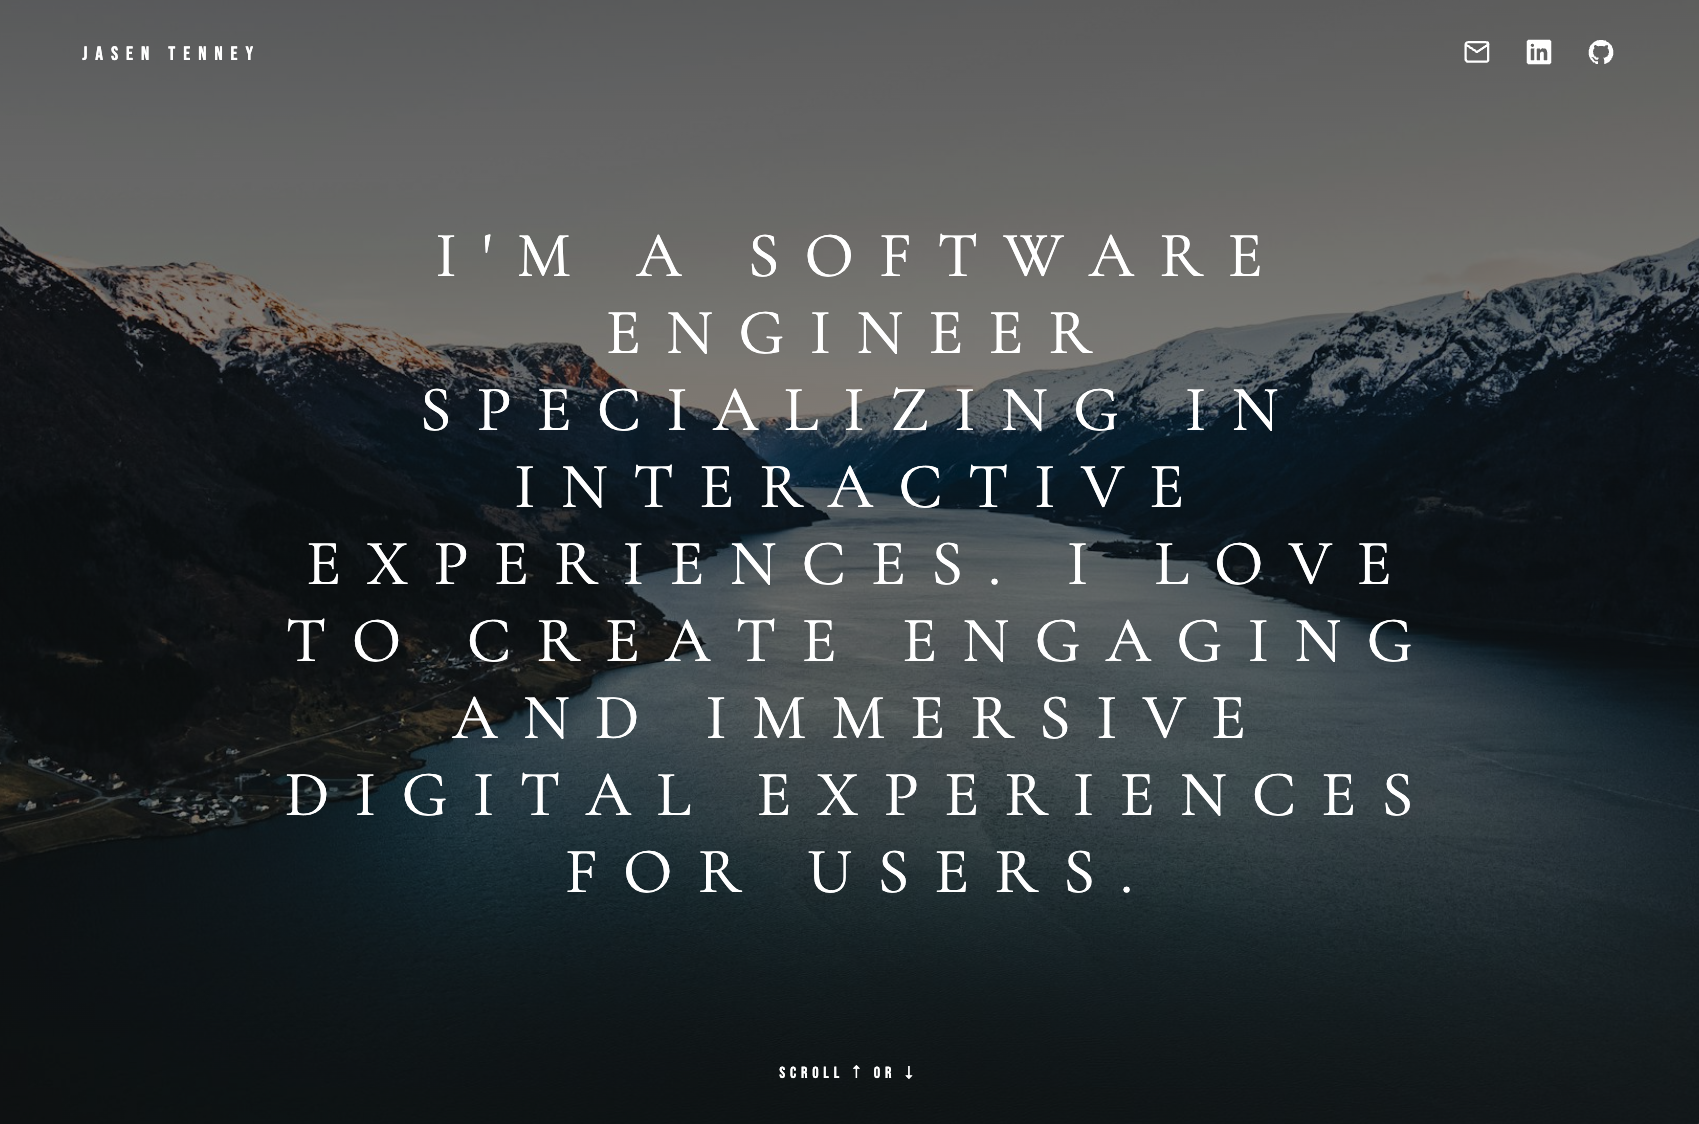
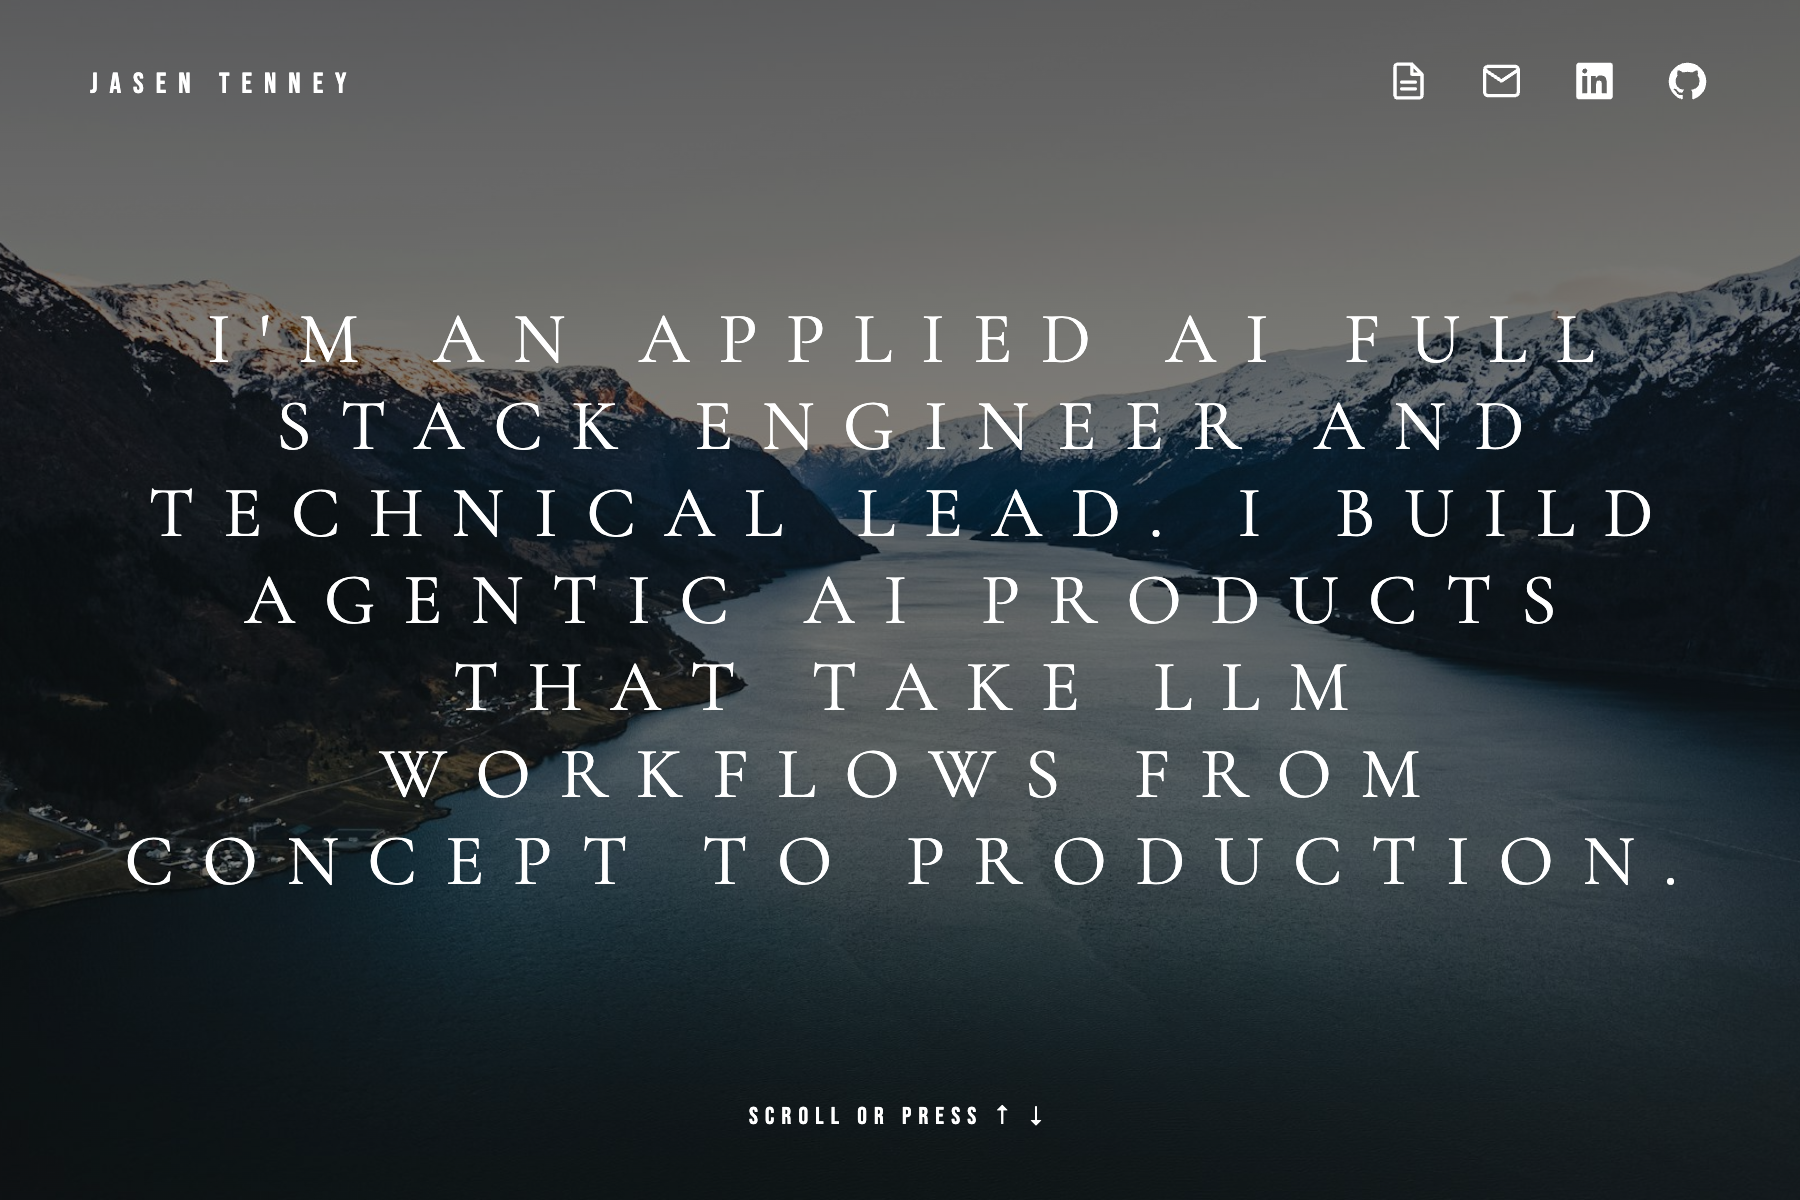
Refresh README and docs assets, bump to 1.1.0
- Regenerate the homepage screenshot and animated demo GIF (3.6 MB,
  down from 14 MB) with the new hero, header, and slides
- Describe the site and its navigation, drop the "GSAP Premium" note
  now that GSAP comes from npm, and document how to update the resume
- Version 1.1.0 in README, package.json and the lockfile

diff --git a/README.md b/README.md
@@ -1,6 +1,6 @@
-# jasentenney.org - v1.0.0
+# jasentenney.org - v1.1.0
 
-The first iteration of my personal website, [jasentenney.org](https://jasentenney.org/), built with [Vue](https://vuejs.org/), [GSAP Premium](https://gsap.com/) and hosted on [AWS (S3, CloudFront)](https://aws.amazon.com/).
+My personal website, [jasentenney.org](https://jasentenney.org/), built with [Vue](https://vuejs.org/) and [GSAP](https://gsap.com/) and hosted on [AWS (S3, CloudFront)](https://aws.amazon.com/). It is a single page of full-screen slides: scroll, swipe, or use the arrow keys to move between them. The header links to my resume (PDF), email, LinkedIn, and GitHub.
 
 ## Homepage Screenshot
 
@@ -41,3 +41,11 @@ npm run build
 ```sh
 aws s3 sync dist s3://jasentenney.org --delete
 ```
+
+## Updating the resume
+
+1. Drop the new PDF into `public/` and remove the old one.
+2. Point both resume links in `src/components/HeaderSection.vue` at the new file name.
+3. Update the hero sentence in `src/components/HeroSection.vue` and the three description meta tags in `index.html` if the summary changed.
+4. Regenerate `public/siteimage.png` (the social preview) from the hero at a 1200x630 viewport, and the screenshot and GIF in `docs/`.
+5. Build and deploy.
